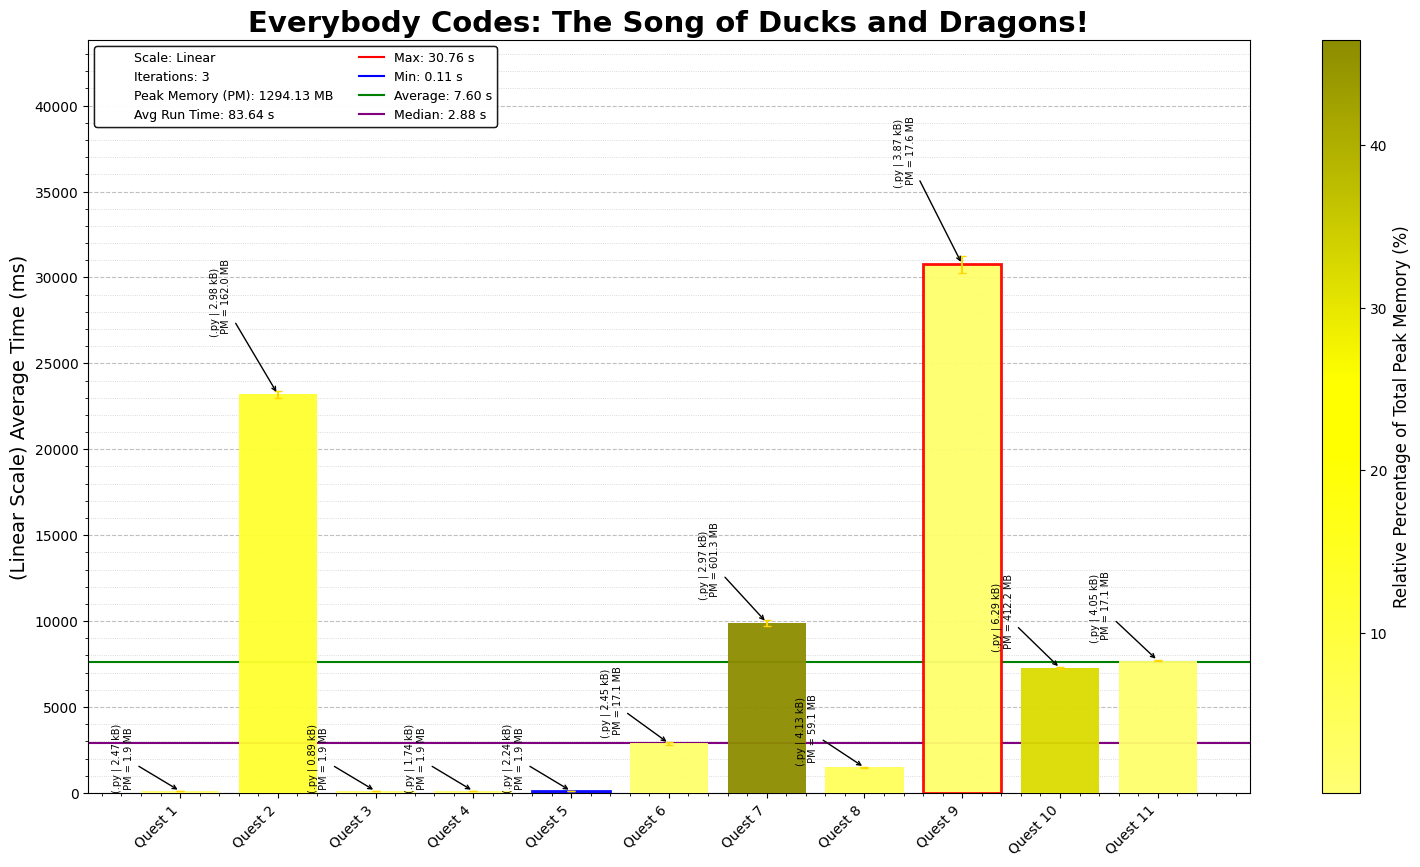
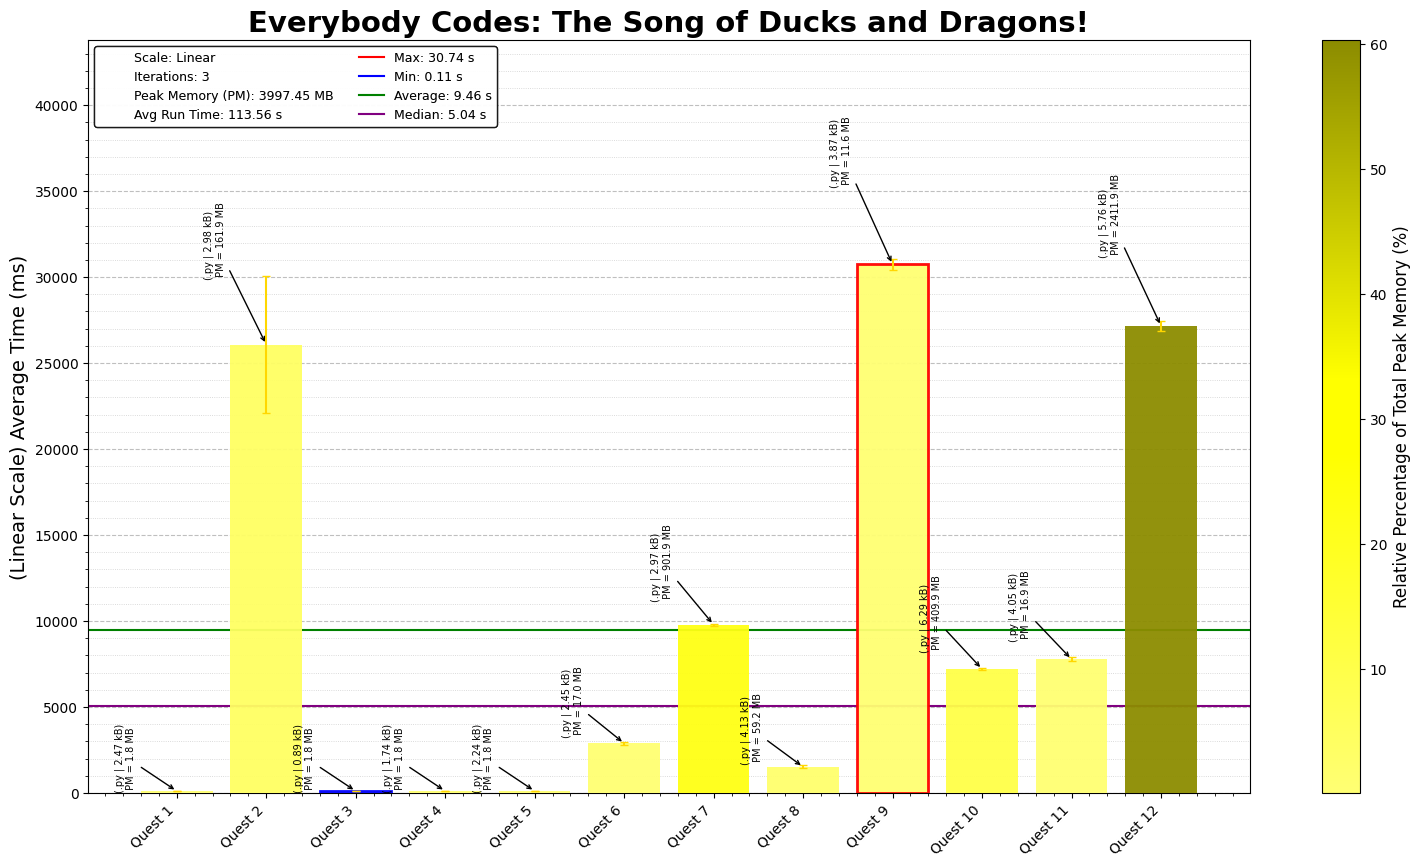
EC 2025 Quest 12: On Spark to Burn Them All

diff --git a/2025/12/2025Day12.py b/2025/12/2025Day12.py
@@ -1,0 +1,167 @@
+"""Everybody Codes - Quest 12, Year 2025
+Solution Started: November 18, 2025
+Puzzle Link: https://everybody.codes/event/2025/quests/12
+Solution by: Abbas Moosajee
+Brief: [One Spark to Burn Them All]"""
+
+#!/usr/bin/env python3
+from pathlib import Path
+from collections import deque, defaultdict
+import time
+start_time = time.time()
+# List of input file names
+input_files = ["Day12_input_p1.txt", "Day12_input_p2.txt", "Day12_input_p3.txt"]
+
+# Read and split the input data into individual lists
+input_data_p1, input_data_p2, input_data_p3 = [
+    open(Path(__file__).parent / file).read().strip().split('\n')
+    for file in input_files
+]
+
+class Barrels:
+    DIRECTIONS = [(-1, 0), (1, 0), (0, 1), (0, -1)]
+    def __init__(self, barrel_map):
+        self.barrel_dict = defaultdict()
+        for row_no, row_data in enumerate(barrel_map):
+            for col_no, cell in enumerate(row_data):
+                self.barrel_dict[(row_no, col_no)] = int(cell)
+
+    def light_fire(self, ignited = (0, 0)):
+        visited = set()
+        barrels_destroyed = set()
+        queue = deque([ignited])
+        while queue:
+            current = queue.popleft()
+            barrel_val = self.barrel_dict[current]
+            barrels_destroyed.add(current)
+            for dr, dc in self.DIRECTIONS:
+                next_pos = (current[0] + dr, current[1] + dc)
+                state = (current, next_pos)
+                if state in visited or next_pos not in self.barrel_dict:
+                    continue
+                visited.add(state)
+                next_barrel = self.barrel_dict[next_pos]
+                if next_barrel <= barrel_val:
+                    queue.append(next_pos)
+        return barrels_destroyed
+
+    def max_destruction(self, picks=3):
+        total_destroyed = set()
+
+        for i in range(picks):
+            best_point = None
+            best_gain = 0
+            best_set = None
+
+            # try every starting point
+            for test_pos  in self.barrel_dict.keys():
+                if test_pos in total_destroyed:
+                    continue
+                destroyed = self.light_fire(test_pos)
+                gain = len(destroyed - total_destroyed)
+                if gain > best_gain:
+                    best_gain = gain
+                    best_point = test_pos
+                    best_set = destroyed
+
+            if best_set:
+                total_destroyed |= best_set
+
+            # print(f"Pick {i}: ignite at {best_point}, total destroyed = {len(total_destroyed)}")
+        return total_destroyed
+
+from collections import deque, defaultdict
+import heapq
+
+class Barrels:
+    DIRECTIONS = [(-1, 0), (1, 0), (0, 1), (0, -1)]
+
+    def __init__(self, barrel_map, precompute = False):
+        self.barrel_dict = {}
+
+        for row_no, row_data in enumerate(barrel_map):
+            for col_no, cell in enumerate(row_data):
+                self.barrel_dict[(row_no, col_no)] = int(cell)
+        if precompute:
+            # Precompute destruction sets
+            self._precompute_destruction_sets()
+
+    def _precompute_destruction_sets(self):
+        """Precompute destruction sets for all positions once."""
+        self.destruction_cache = {}
+        for pos in self.barrel_dict:
+            self.destruction_cache[pos] = self.light_fire(pos)
+
+    def light_fire(self, ignited=(0, 0)):
+        visited = set()
+        barrels_destroyed = set()
+        queue = deque([ignited])
+
+        while queue:
+            current = queue.popleft()
+            if current in barrels_destroyed:
+                continue
+
+            barrel_val = self.barrel_dict[current]
+            barrels_destroyed.add(current)
+
+            for dr, dc in self.DIRECTIONS:
+                next_pos = (current[0] + dr, current[1] + dc)
+                if next_pos not in self.barrel_dict or next_pos in barrels_destroyed:
+                    continue
+
+                next_barrel = self.barrel_dict[next_pos]
+                if next_barrel <= barrel_val:
+                    queue.append(next_pos)
+
+        return barrels_destroyed
+
+    def max_destruction(self, picks=3):
+        total_destroyed = set()
+        available_positions = set(self.barrel_dict.keys())
+
+        for _ in range(picks):
+            if not available_positions:
+                break
+
+            best_point = None
+            best_gain = 0
+            best_set = None
+
+            # Consider only positions that are still available
+            for test_pos in list(available_positions):
+                destroyed = self.destruction_cache[test_pos]
+                new_destroyed = destroyed - total_destroyed
+                gain = len(new_destroyed)
+
+                # Early termination if no gain
+                if gain == 0:
+                    available_positions.discard(test_pos)
+                    continue
+
+                if gain > best_gain:
+                    best_gain = gain
+                    best_point = test_pos
+                    best_set = destroyed
+
+            if best_point is None:
+                break
+
+            # Update sets
+            total_destroyed |= best_set
+            available_positions -= best_set
+        return total_destroyed
+
+barrels_p1 = Barrels(input_data_p1)
+destroyed_p1 = barrels_p1.light_fire()
+print("Quest 12, P1:", len(destroyed_p1))
+
+barrels_p2 = Barrels(input_data_p2)
+ignition_points = (min(barrels_p2.barrel_dict.keys()), max(barrels_p2.barrel_dict.keys()))
+destroyed_p2 = barrels_p2.light_fire(ignition_points[0]) | barrels_p2.light_fire(ignition_points[1])
+print("Quest 12, P2:", len(destroyed_p2))
+
+barrels_p3 = Barrels(input_data_p3, True)
+destroyed_p3 = barrels_p3.max_destruction()
+print("Quest 12, P3:", len(destroyed_p3))
+# print(f"Execution Time: {time.time() - start_time:5f}s")

diff --git a/2025/README_2025.md b/2025/README_2025.md
@@ -15,5 +15,6 @@ This repository contains coding solutions for the 2025 Everybody Codes. Each day
 7. **Day 7 - Namegraph**: Validate names according to a series of rules, and then extend it according tot he same rules usinng a bfs
 8. **Day 8 - The Art of Connection**: Not a bad puzzle overall but geometry is really annoying
 9. **Day 9 - Encoded in the Scales**: Compare strings to calculate similarity, and build family trees. *Improve P3*
-10: **Day 10 - Feast on the Board**: Dragon Chess, all the good maze algorithms at once what more could one ask for
-11 **ay 11 - The Scout Duck Protocol**: Is it an elegant solution, no but it works so yk all's good.
+10. **Day 10 - Feast on the Board**: Dragon Chess, all the good maze algorithms at once what more could one ask for
+11. **Day 11 - The Scout Duck Protocol**: Is it an elegant solution, no but it works so yk all's good.
+12. **Day 12 - One Spark to Burn Them All**: Floodfill algorithms at its best, P3 is a brute force approach with minor optimisations to remove dead barrels
